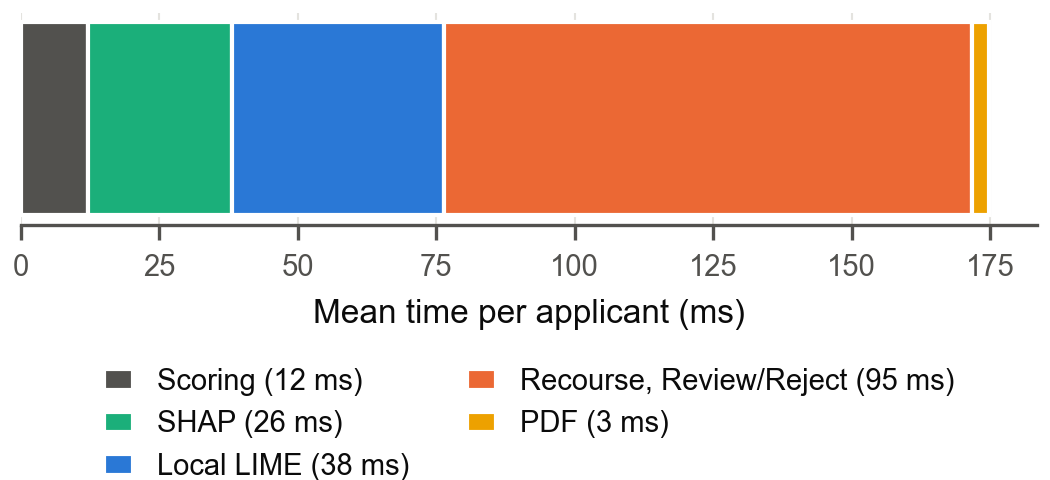
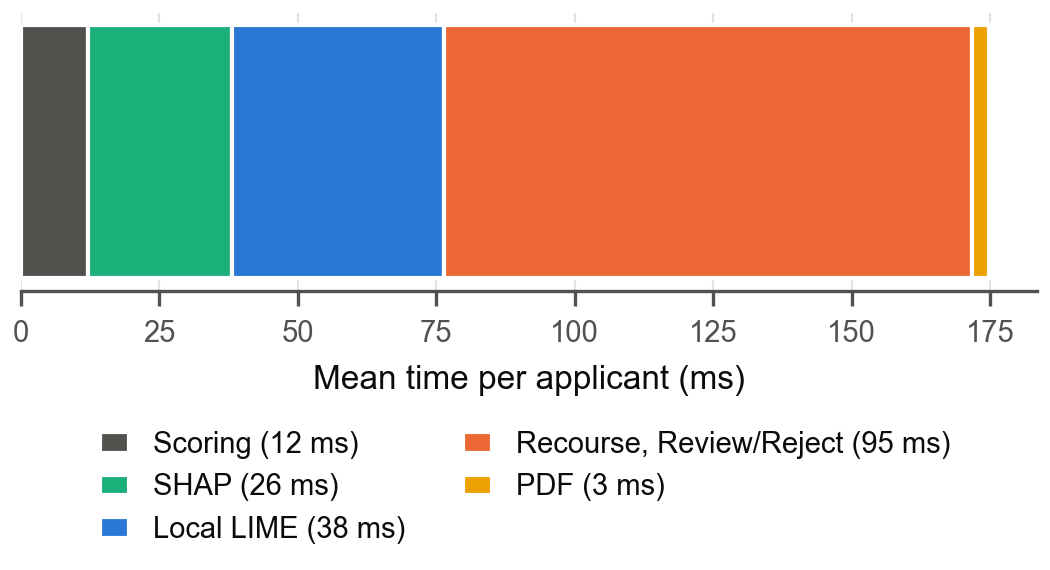
Paper: acronyms defined at first use, wide-figure captions, Fig. 6 legend, author biographies

diff --git a/paper/main.tex b/paper/main.tex
@@ -53,25 +53,43 @@ Algorithmic recourse, counterfactual explanations, credit risk, decision support
 \bibliography{references}
 
 % Author biographies with a 1 x 1.25 inch photo each (IEEE Access requires them).
-% a1.png is the template sample photo; replace with each author's photo (e.g. varun.png) when available.
+% Replace a1.png (the template's sample photo) with each author's photo, e.g. varun.png.
+% Keep each biography at least about eight lines long: the photo is 1.25 in tall, and a shorter
+% biography lets the next one start beside the photo instead of below it.
 \begin{IEEEbiography}[{\includegraphics[width=1in,height=1.25in,clip,keepaspectratio]{a1.png}}]{MKN Sai Varun}
-is pursuing the B.Tech. degree in computer science and engineering at Keshav Memorial Institute of Technology,
-Hyderabad, India. FILL IN: research interests.
+is currently pursuing the B.Tech. degree in computer science and engineering at Keshav Memorial Institute of
+Technology (KMIT), Hyderabad, India, expected in 2027. In this work, MKN Sai Varun was responsible for FILL IN: role,
+for example data preparation and the risk model, the explanation methods, the recourse engine, or the application
+and the fairness analysis. FILL IN: one or two sentences on other projects, internships, publications or awards,
+or delete this sentence. Research interests include explainable machine learning, decision support systems and
+FILL IN: one or two further areas.
 \end{IEEEbiography}
 
 \begin{IEEEbiography}[{\includegraphics[width=1in,height=1.25in,clip,keepaspectratio]{a1.png}}]{Arnav Agarwal}
-is pursuing the B.Tech. degree in computer science and engineering at Keshav Memorial Institute of Technology,
-Hyderabad, India. FILL IN: research interests.
+is currently pursuing the B.Tech. degree in computer science and engineering at Keshav Memorial Institute of
+Technology (KMIT), Hyderabad, India, expected in 2027. In this work, Arnav Agarwal was responsible for FILL IN: role,
+for example data preparation and the risk model, the explanation methods, the recourse engine, or the application
+and the fairness analysis. FILL IN: one or two sentences on other projects, internships, publications or awards,
+or delete this sentence. Research interests include explainable machine learning, decision support systems and
+FILL IN: one or two further areas.
 \end{IEEEbiography}
 
 \begin{IEEEbiography}[{\includegraphics[width=1in,height=1.25in,clip,keepaspectratio]{a1.png}}]{K Preetham Reddy}
-is pursuing the B.Tech. degree in computer science and engineering at Keshav Memorial Institute of Technology,
-Hyderabad, India. FILL IN: research interests.
+is currently pursuing the B.Tech. degree in computer science and engineering at Keshav Memorial Institute of
+Technology (KMIT), Hyderabad, India, expected in 2027. In this work, K Preetham Reddy was responsible for FILL IN: role,
+for example data preparation and the risk model, the explanation methods, the recourse engine, or the application
+and the fairness analysis. FILL IN: one or two sentences on other projects, internships, publications or awards,
+or delete this sentence. Research interests include explainable machine learning, decision support systems and
+FILL IN: one or two further areas.
 \end{IEEEbiography}
 
 \begin{IEEEbiography}[{\includegraphics[width=1in,height=1.25in,clip,keepaspectratio]{a1.png}}]{Pranav Kasanagottu}
-is pursuing the B.Tech. degree in computer science and engineering at Keshav Memorial Institute of Technology,
-Hyderabad, India. FILL IN: research interests.
+is currently pursuing the B.Tech. degree in computer science and engineering at Keshav Memorial Institute of
+Technology (KMIT), Hyderabad, India, expected in 2027. In this work, Pranav Kasanagottu was responsible for FILL IN: role,
+for example data preparation and the risk model, the explanation methods, the recourse engine, or the application
+and the fairness analysis. FILL IN: one or two sentences on other projects, internships, publications or awards,
+or delete this sentence. Research interests include explainable machine learning, decision support systems and
+FILL IN: one or two further areas.
 \end{IEEEbiography}
 
 \EOD

diff --git a/src/paper_figures.py b/src/paper_figures.py
@@ -153,12 +153,12 @@ def build_tables(d):
              "xgboost": "XGBoost", "lightgbm": "LightGBM"}
     rows = [[names[m], num(b.loc[m, "roc_auc"]), num(b.loc[m, "thresh_precision"]),
              num(b.loc[m, "thresh_recall"]), num(b.loc[m, "thresh_f1"])] for m in names]
-    rows += ["---", ["Final model (LightGBM, FE v2)", num(card["test_roc_auc"]), "--", "--", "--"]]
+    rows += ["---", [f"Final model (LightGBM, {len(card['features_used'])} features)", num(card["test_roc_auc"]), "--", "--", "--"]]
     t.append(Table("models", "Baselines and Final Model on the Test Set",
                    ["Model", "ROC-AUC", "Precision", "Recall", "F1"], rows,
                    note="Baselines: SMOTE on training data, metrics at each model's F1-optimal threshold. "
                         f"Final model PR-AUC {card['test_pr_auc']:.4f}; gender excluded "
-                        f"(cost {d['gender']['test_roc_auc'].iloc[1] - d['gender']['test_roc_auc'].iloc[0]:.4f} AUC). "
+                        f"(cost {d['gender']['test_roc_auc'].iloc[1] - d['gender']['test_roc_auc'].iloc[0]:.4f} ROC-AUC). "
                         f"Ten bootstrap-retrained models: {d['bootstrap']['test_roc_auc_mean']:.4f} $\\pm$ "
                         f"{d['bootstrap']['test_roc_auc_std']:.4f}."))
 
@@ -214,7 +214,8 @@ def build_tables(d):
               num(lat["api"][k]["p95_ms"], 1)] for k in api_names if lat["api"].get(k)]
     t.append(Table("latency", "Latency (ms)", ["Step", "Mean", "Median", "p95"], rows,
                    note=f"{lat['applicants']} test applicants on a laptop ({lat['environment']['machine']}, "
-                        f"Python {lat['environment']['python']}); start-up {lat['cold_start_ms'] / 1000:.1f} s."))
+                        f"Python {lat['environment']['python']}); start-up {lat['cold_start_ms'] / 1000:.1f} s. "
+                        "p95: 95th percentile."))
 
     u = d["understandability"]
     r, a = u["readability"]["all_applicant_text"], u["amount_of_information"]
@@ -409,14 +410,14 @@ def fig_latency(plt, d):
     parts = [("Scoring", st["score"]["mean_ms"], MUTED), ("SHAP", st["shap"]["mean_ms"], AQUA),
              ("Local LIME", st["lime"]["mean_ms"], BLUE), ("Recourse, Review/Reject", st["recourse"]["mean_ms"], ORANGE),
              ("PDF", st["applicant_pdf"]["mean_ms"], YELLOW)]
-    fig, ax = plt.subplots(figsize=(COLUMN_IN, 1.6), layout="constrained")
+    fig, ax = plt.subplots(figsize=(COLUMN_IN, 1.9), layout="constrained")
     left = 0
     for name, v, c in parts:
         ax.barh(0, v, left=left, color=c, height=0.5, edgecolor="white", linewidth=1, label=f"{name} ({v:.0f} ms)")
         left += v
     ax.set_yticks([])
     ax.set_xlabel("Mean time per applicant (ms)")
-    ax.legend(ncol=2, loc="upper center", bbox_to_anchor=(0.5, -0.55), frameon=False, handlelength=1)
+    fig.legend(ncol=2, loc="outside lower center", frameon=False, handlelength=1)   # inside the figure's own area
     _clean(ax, "x")
     ax.spines["left"].set_visible(False)
     _save(fig, "fig6_latency")

diff --git a/paper/sections/related_work.tex b/paper/sections/related_work.tex
@@ -7,9 +7,9 @@ difficulty repaying. A large benchmark of classifiers on several credit scoring 
 including random forests, are among the strongest performers and that progress should be judged on several data
 sets and metrics rather than on accuracy alone~\cite{lessmann2015benchmark}. Gradient-boosted decision trees such as
 LightGBM~\cite{ke2017lightgbm} are now widely used for this task, since they train quickly on large tables and need
-little preprocessing. Credit data are typically imbalanced, which has motivated resampling methods such as
-SMOTE~\cite{chawla2002smote}; with an imbalanced target, threshold-free measures such as the area under the ROC curve
-are more informative than accuracy.
+little preprocessing. Credit data are typically imbalanced, which has motivated resampling methods such as the
+Synthetic Minority Over-sampling Technique (SMOTE)~\cite{chawla2002smote}; with an imbalanced target, threshold-free measures such as the area under the receiver
+operating characteristic curve (ROC-AUC) are more informative than accuracy.
 
 The Home Credit Default Risk dataset~\cite{homecredit2018} is a public benchmark with more than 300{,}000
 applicants, many of whom have little or no credit history. Shreya and Pathak~\cite{shreya2025base} compared random
@@ -38,7 +38,7 @@ A counterfactual explanation describes the smallest change to an input that woul
 decision~\cite{wachter2018counterfactual}. Algorithmic recourse adds the requirement that the change be actionable:
 it should only alter features that a person can change, in directions and amounts that are
 feasible~\cite{ustun2019recourse}. Ustun~\emph{et al.}~\cite{ustun2019recourse} computed such recourse for linear
-classifiers with integer programming. DiCE~\cite{mothilal2020dice} generates several diverse counterfactuals for any
+classifiers with integer programming. Diverse Counterfactual Explanations (DiCE)~\cite{mothilal2020dice} generates several diverse counterfactuals for any
 differentiable or black-box model, trading off proximity to the input against diversity among the options. Karimi
 \emph{et al.}~\cite{karimi2022survey} survey the area and stress that recourse must account for the cost to the
 person and for the plausibility of the suggested profile.

diff --git a/paper/sections/introduction.tex b/paper/sections/introduction.tex
@@ -9,8 +9,8 @@ reviews the case and the regulator who audits the process all need more than a p
 the decision was made, what the applicant could do to obtain a better one, and whether the model treats groups of
 applicants differently.
 
-Post-hoc explanation methods such as SHAP~\cite{lundberg2017shap,lundberg2020tree} and
-LIME~\cite{ribeiro2016lime} are now routinely attached to credit models to answer the first question. Recent work
+Post-hoc explanation methods such as SHapley Additive exPlanations (SHAP)~\cite{lundberg2017shap,lundberg2020tree}
+and Local Interpretable Model-agnostic Explanations (LIME)~\cite{ribeiro2016lime} are now routinely attached to credit models to answer the first question. Recent work
 on the Home Credit Default Risk dataset~\cite{homecredit2018} compared random forest, XGBoost and LightGBM and
 reported SHAP and LIME explanations for the best model~\cite{shreya2025base}. Such studies stop at the explanation:
 they show which features pushed a score up or down, but they do not tell an applicant what to change, they produce
@@ -37,7 +37,7 @@ cannot take on a loan alone) rather than of risk.
 
 This paper presents \emph{CreditXplain}, an explainable, counterfactual-driven decision support system for credit
 risk prediction that addresses these gaps as one working system: an applicant portal, an officer dashboard and
-auditable PDF reports built around a LightGBM risk model. Its contributions are as follows.
+auditable reports in Portable Document Format (PDF), built around a LightGBM risk model. Its contributions are as follows.
 
 \begin{enumerate}
 \item \textbf{A three-band decision process with eligibility rules.} Applications are approved automatically below a

diff --git a/paper/sections/results.tex b/paper/sections/results.tex
@@ -3,7 +3,7 @@
 
 \subsection{Predictive Performance and Decision Bands}
 Table~\ref{tab:models} compares the final model with the baselines. The final LightGBM model reaches a test ROC-AUC
-of 0.767 and a PR-AUC of 0.255, against 0.748 for the best baseline (XGBoost trained on SMOTE-balanced data). Excluding
+of 0.767 and an area under the precision-recall curve (PR-AUC) of 0.255, against 0.748 for the best baseline (XGBoost trained on SMOTE-balanced data). Excluding
 gender lowers the ROC-AUC by only 0.0015. The ten bootstrap-retrained models reach $0.7609 \pm 0.0009$; they are
 slightly weaker because each is trained on a resample with repeated rows, and their small spread indicates a stable
 training procedure. The base paper reported a ROC-AUC of 0.720 for LightGBM on the same dataset~\cite{shreya2025base};
@@ -40,8 +40,7 @@ Fig.~\ref{fig:recourse} summarizes the main ones.
 \input{tables/recourse_review_to_approve}
 
 \Figure[t!](topskip=0pt, botskip=0pt, midskip=0pt){figures/fig2_recourse.pdf}
-{Share of applicants given a usable recourse option, and one that is also still valid on all five held-out
-retrained models, by method and tier.\label{fig:recourse}}
+{Applicants given a usable recourse option, and one that also holds on all five held-out retrained models.\label{fig:recourse}}
 
 \emph{Coverage and cost.} With the three loan levers, the proposed engine gives a usable option to 57.3\% of
 rejected applicants and 37.0\% of Review applicants. Adding the waiting lever raises this to 62.0\% and 45.3\%. Random

diff --git a/paper/sections/setup.tex b/paper/sections/setup.tex
@@ -71,14 +71,14 @@ and holds on all five.
 
 \subsection{Fairness}
 We audit decisions by age band (under 25, 25--35, 35--45, 45--55 and over 55) and by whether the applicant has
-children. The demographic parity difference is the largest difference in the automatic approval rate between groups,
+children. The demographic parity difference (DPD) is the largest difference in the automatic approval rate between groups,
 and the equal opportunity difference~\cite{hardt2016equality} is the same difference among applicants who repaid. To
 test whether age needs to be a feature, we retrain the model without the three direct age features, and without them
 and the three features derived from age, with the same protocol as the final model, and compare them with the current
 model and with a variant that sets the cutoffs separately for each age band.
 
 \subsection{System Measurements}
-\emph{Latency.} We submit 100 test applicants through the application's API, after one warm-up applicant, and time
+\emph{Latency.} We submit 100 test applicants through the system's application programming interface (API), after one warm-up applicant, and time
 each step and each stage of the decision, on a laptop (Apple silicon, 10 cores, macOS, Python 3.9).
 
 \emph{Understandability.} For 150 test applicants, 50 per band, we rebuild the text an applicant reads, with the

diff --git a/reports/paper/tables/models.tex b/reports/paper/tables/models.tex
@@ -12,8 +12,8 @@ Random forest & 0.701 & 0.184 & 0.394 & 0.251 \\
 XGBoost & 0.748 & 0.225 & 0.428 & 0.295 \\
 LightGBM & 0.747 & 0.229 & 0.424 & 0.297 \\
 \hline
-Final model (LightGBM, FE v2) & 0.767 & -- & -- & -- \\
+Final model (LightGBM, 300 features) & 0.767 & -- & -- & -- \\
 \hline
-\multicolumn{5}{p{0.92\linewidth}}{\footnotesize Baselines: SMOTE on training data, metrics at each model's F1-optimal threshold. Final model PR-AUC 0.2549; gender excluded (cost 0.0015 AUC). Ten bootstrap-retrained models: 0.7609 $\pm$ 0.0009.} \\
+\multicolumn{5}{p{0.92\linewidth}}{\footnotesize Baselines: SMOTE on training data, metrics at each model's F1-optimal threshold. Final model PR-AUC 0.2549; gender excluded (cost 0.0015 ROC-AUC). Ten bootstrap-retrained models: 0.7609 $\pm$ 0.0009.} \\
 \end{tabular}
 \end{table}

diff --git a/paper/sections/method.tex b/paper/sections/method.tex
@@ -9,8 +9,7 @@ is explained with SHAP and local LIME and stated in plain language. Applicants w
 options, and Review cases go to a loan officer. Each component is described below.
 
 \Figure[t!](topskip=0pt, botskip=0pt, midskip=0pt){figures/fig1_architecture.pdf}
-{CreditXplain decision process: eligibility rules, risk model, three-band router, explanations for every
-decision, recourse for applicants who are not approved, and officer review.\label{fig:architecture}}
+{CreditXplain decision process: eligibility rules, risk model, three-band router, explanations, recourse and officer review.\label{fig:architecture}}
 
 \subsection{Eligibility Rules}
 \label{sec:eligibility}

diff --git a/reports/paper/tables/latency.tex b/reports/paper/tables/latency.tex
@@ -21,6 +21,6 @@ Applicant's full path & 157.7 & 150.1 & 258.5 \\
 ``What if'' recourse & 64.8 & 37.1 & 138.7 \\
 Compliance PDF & 10.4 & 10.3 & 11.6 \\
 \hline
-\multicolumn{4}{p{0.92\linewidth}}{\footnotesize 100 test applicants on a laptop (arm64, Python 3.9.6); start-up 1.6 s.} \\
+\multicolumn{4}{p{0.92\linewidth}}{\footnotesize 100 test applicants on a laptop (arm64, Python 3.9.6); start-up 1.6 s. p95: 95th percentile.} \\
 \end{tabular}
 \end{table}

diff --git a/reports/paper/README.md b/reports/paper/README.md
@@ -27,11 +27,13 @@ and complete the author lists marked `and others` (IEEE lists up to six authors 
 Use the template's own `\Figure` command for every figure: the IEEE Access class captions figures only through it
 (a standard `figure` or `figure*` block stops with an undefined `\xfigwd` error). The class sizes each figure from the
 PDF's own width: the page-wide figures are 7.16 in and the column figures 3.5 in.
+For a page-wide figure the class sets the caption on a single line and does not wrap it, so keep those
+captions under about 130 characters; column-wide captions wrap normally.
 
 | File | Width | Line to paste |
 |---|---|---|
-| `fig1_architecture.pdf` | both columns | `\Figure[t!](topskip=0pt, botskip=0pt, midskip=0pt){figures/fig1_architecture.pdf}{CreditXplain: eligibility rules, risk model, three-band router, explanations and robust recourse, with officer review.\label{fig:architecture}}` |
-| `fig2_recourse.pdf` | both columns | `\Figure[t!](topskip=0pt, botskip=0pt, midskip=0pt){figures/fig2_recourse.pdf}{Share of applicants given a usable recourse option, and one that also survives retraining, per method and tier.\label{fig:recourse}}` |
+| `fig1_architecture.pdf` | both columns | `\Figure[t!](topskip=0pt, botskip=0pt, midskip=0pt){figures/fig1_architecture.pdf}{CreditXplain decision process: eligibility rules, risk model, three-band router, explanations, recourse and officer review.\label{fig:architecture}}` |
+| `fig2_recourse.pdf` | both columns | `\Figure[t!](topskip=0pt, botskip=0pt, midskip=0pt){figures/fig2_recourse.pdf}{Applicants given a usable recourse option, and one that also holds on all five held-out retrained models.\label{fig:recourse}}` |
 | `fig3_robustness.pdf` | one column | `\Figure[t!](topskip=0pt, botskip=0pt, midskip=0pt){figures/fig3_robustness.pdf}{Number of held-out retrained models on which each method's options still reach the promised band.\label{fig:robustness}}` |
 | `fig4_explanations.pdf` | both columns | `\Figure[t!](topskip=0pt, botskip=0pt, midskip=0pt){figures/fig4_explanations.pdf}{Agreement of whole-model and local LIME with SHAP, by decision band.\label{fig:explanations}}` |
 | `fig5_age.pdf` | both columns | `\Figure[t!](topskip=0pt, botskip=0pt, midskip=0pt){figures/fig5_age.pdf}{Actual default rate and automatic approval rate by age band on the test set.\label{fig:age}}` |

diff --git a/docs/IMPLEMENTATION_LOG.md b/docs/IMPLEMENTATION_LOG.md
@@ -2635,6 +2635,10 @@ Builds every table and figure of the paper straight from the files in `reports/`
   - The IEEE Access class captions figures only through its own `\Figure` command; standard `figure*` blocks stopped with an undefined `\xfigwd`. All six figures now use `\Figure`.
   - The class sizes each figure from the PDF's own width, so figures are no longer cropped. Each PDF is exactly 3.5 in (column) or 7.16 in (page) wide, laid out with constrained layout.
   - The in-figure title of Fig. 3 was removed, because the caption carries it.
+  - Fig. 6's legend was clipped at the fixed 3.5 in size. It now uses a figure-level legend placed outside the axes, which the layout reserves space for, and the figure is 1.9 in tall.
+  - For page-wide figures the class sets the caption on one unwrapped line, which clipped Fig. 1's caption. The Fig. 1 and Fig. 2 captions are shortened, and page-wide captions are kept under about 130 characters.
+  - Acronyms are spelled out at first use in the body, as IEEE Access requires: SHAP, LIME, ROC-AUC, PR-AUC, SMOTE, DiCE, DPD, API and PDF. Table II's internal label "FE v2" now reads "300 features", and the latency table's note explains p95.
+  - Author biographies are rewritten at full length, with `FILL IN` parts. Two-line placeholders were shorter than the 1.25 in photo, so each next biography started beside the previous photo and looked misaligned.
 
 ---
 

diff --git a/reports/paper/tables/models.md b/reports/paper/tables/models.md
@@ -6,6 +6,6 @@
 | Random forest | 0.701 | 0.184 | 0.394 | 0.251 |
 | XGBoost | 0.748 | 0.225 | 0.428 | 0.295 |
 | LightGBM | 0.747 | 0.229 | 0.424 | 0.297 |
-| Final model (LightGBM, FE v2) | 0.767 | – | – | – |
+| Final model (LightGBM, 300 features) | 0.767 | – | – | – |
 
-Baselines: SMOTE on training data, metrics at each model's F1-optimal threshold. Final model PR-AUC 0.2549; gender excluded (cost 0.0015 AUC). Ten bootstrap-retrained models: 0.7609 ± 0.0009.
+Baselines: SMOTE on training data, metrics at each model's F1-optimal threshold. Final model PR-AUC 0.2549; gender excluded (cost 0.0015 ROC-AUC). Ten bootstrap-retrained models: 0.7609 ± 0.0009.
